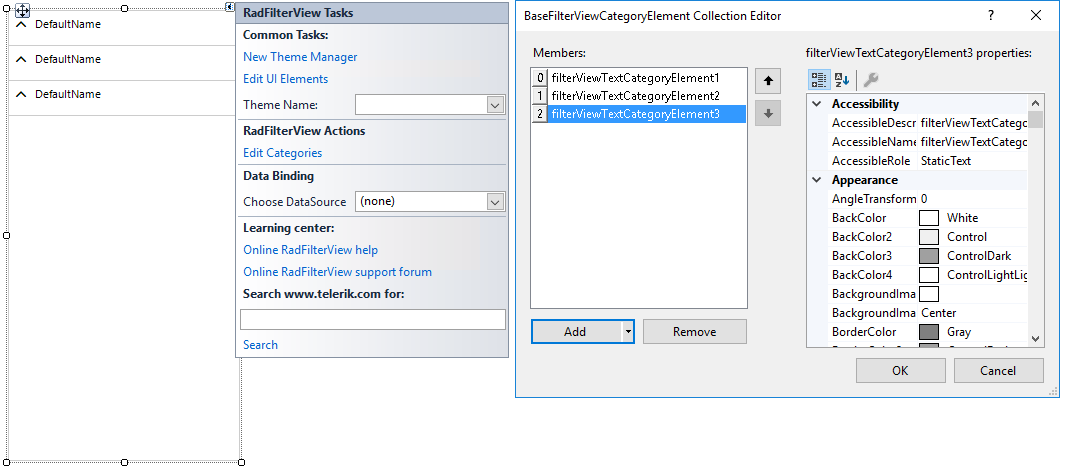
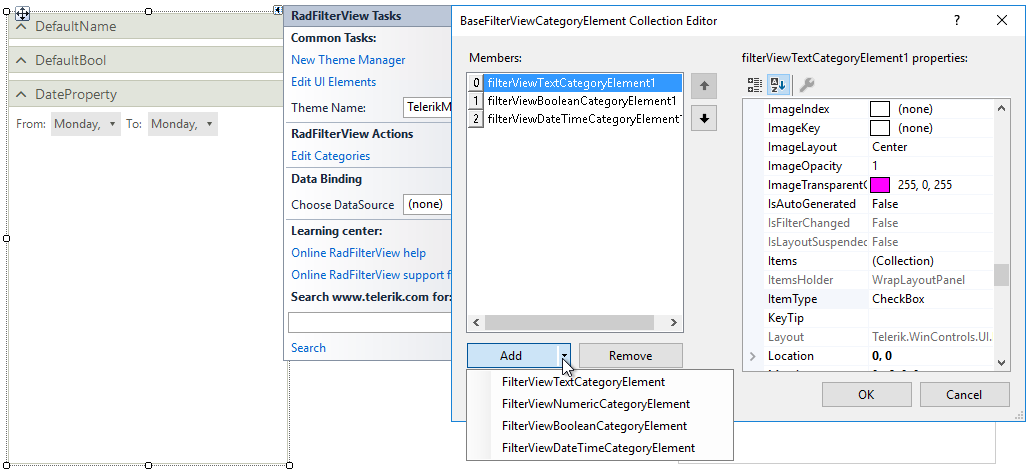
FilterView Changing Default Editors

diff --git a/controls/filter-view/filter-view-changing-default-editors.md b/controls/filter-view/filter-view-changing-default-editors.md
@@ -1,0 +1,171 @@
+---
+title: Changing Default Editors
+page_title: Changing Default Editors | Filter View
+description: Change the default generated editors in the WinForms FilterView control.  
+slug: filter-view-changing-default-editors
+tags: filter, view, editor, change
+published: True
+position: 4  
+---
+
+# Changing Default Editors
+
+**RadFilterView** is build of different filter view group elements. The control uses a **FilterViewCategoriesFactory** that creates the necessary category element considering the property data type:
+
+* **FilterViewNumericCategoryElement**: used for numeric types. It generates two RadSpinEditorElements allowing you to specify a range of numeric values. A RadTrackBarElement is also created providing a different user experience for defining a numberic range. 
+* **FilterViewDateTimeCategoryElement**: used for DateTime properties. It generates two RadDateTimePickerElements allowing you to specify a date range. 
+* **FilterViewBooleanCategoryElement**: used for boolean fields. Two RadCheckBoxElements are created allowing you to easily filter by True/False values. 
+* **FilterViewTextCategoryElement**: default category element. It generates a set of check boxes for each string value. 
+
+**RadFilterView** offers a convenient API for customizing the automatically generated editor elements for a certain group. The default category element can be customized either by utilizing the **FilterViewCategoriesFactory** or by handling the **CategoryCreating** event.  
+
+## Using the CategoryCreating Event
+
+For the boolean fields in the applied DataSource, **RadFilterView** generates a **FilterViewBooleanCategoryElement**. It contains a group of two check boxes, true/false:
+
+![filter-view-changing-default-editors 001](images/filter-view-changing-default-editors001.png)
+
+The **CategoryCreating** event gives you the possibility to replace the default **FilterViewBooleanCategoryElement** with another one, e.g. **FilterViewTextCategoryElement** with radio buttons:
+
+{{source=..\SamplesCS\FilterView\FilterViewGettingStarted.cs region=ReplaceCategory}} 
+{{source=..\SamplesVB\FilterView\FilterViewGettingStarted.vb region=ReplaceCategory}} 
+
+````C#
+
+private void RadFilterView_CategoryCreating(object sender, FilterViewCategoryCreatingEventArgs e)
+{
+    if (e.Category.PropertyName == "Discontinued")
+    {
+        FilterViewTextCategoryElement textCategory = new FilterViewTextCategoryElement();
+        textCategory.PropertyName = e.Category.PropertyName;
+        textCategory.ItemType = FilterViewTextCategoryItemType.RadioButton;
+        e.Category = textCategory;
+    }
+}
+
+````
+````VB.NET
+
+Private Sub RadFilterView_CategoryCreating(ByVal sender As Object, ByVal e As FilterViewCategoryCreatingEventArgs)
+    If e.Category.PropertyName = "Discontinued" Then
+        Dim textCategory As FilterViewTextCategoryElement = New FilterViewTextCategoryElement()
+        textCategory.PropertyName = e.Category.PropertyName
+        textCategory.ItemType = FilterViewTextCategoryItemType.RadioButton
+        e.Category = textCategory
+    End If
+End Sub
+
+````
+
+{{endregion}}   
+
+![filter-view-changing-default-editors 003](images/filter-view-changing-default-editors003.png)
+
+By default, the **FilterViewTextCategoryElement** auto-generates a set of check boxes for each string value. You can switch to creating a set of radio buttons and thus allowing only a single text value to be selected:
+
+{{source=..\SamplesCS\FilterView\FilterViewGettingStarted.cs region=SwitchToRadioButtons}} 
+{{source=..\SamplesVB\FilterView\FilterViewGettingStarted.vb region=SwitchToRadioButtons}} 
+
+````C#
+
+private void RadFilterView1_CategoryCreating(object sender, FilterViewCategoryCreatingEventArgs e)
+{
+    if (e.Category.PropertyName == "ProductName")
+    {
+        FilterViewTextCategoryElement textCategory = e.Category as FilterViewTextCategoryElement; 
+        textCategory.ItemType = FilterViewTextCategoryItemType.RadioButton; 
+    }
+}
+
+````
+````VB.NET
+
+Private Sub RadFilterView1_CategoryCreating(ByVal sender As Object, ByVal e As FilterViewCategoryCreatingEventArgs)
+    If e.Category.PropertyName = "ProductName" Then
+        Dim textCategory As FilterViewTextCategoryElement = TryCast(e.Category, FilterViewTextCategoryElement)
+        textCategory.ItemType = FilterViewTextCategoryItemType.RadioButton
+    End If
+End Sub
+
+````
+
+{{endregion}}   
+
+![filter-view-changing-default-editors 002](images/filter-view-changing-default-editors002.png)
+
+## Using a Custom Factory
+
+Create a derivative of the **FilterViewCategoriesFactory** element and override its **CreateCategory** method. This is the default logic for generating the category elements. It is possible to plug into the creation process and adjust it according to any custom requirements:
+
+{{source=..\SamplesCS\FilterView\FilterViewGettingStarted.cs region=CustomFactory}} 
+{{source=..\SamplesVB\FilterView\FilterViewGettingStarted.vb region=CustomFactory}} 
+
+````C#
+public class CustomFilterViewCategoriesFactory : Telerik.WinControls.UI.FilterView.FilterViewCategoriesFactory
+{
+    public override BaseFilterViewCategoryElement CreateCategory(string propertyName, Type propertyType, string displayName = "")
+    {
+        if (TelerikHelper.IsNumericType(propertyType))
+        {
+            return new FilterViewNumericCategoryElement(propertyName, propertyType, displayName);
+        }
+        else if (propertyType == typeof(DateTime))
+        {
+            return new FilterViewDateTimeCategoryElement(propertyName, propertyType, displayName);
+        }
+        else if (propertyType == typeof(bool))
+        { 
+            return new FilterViewBooleanCategoryElement(propertyName, propertyType, displayName);
+        }
+
+        return new FilterViewTextCategoryElement(propertyName, propertyType, displayName);
+    }
+}
+
+````
+````VB.NET
+
+Public Class CustomFilterViewCategoriesFactory
+    Inherits Telerik.WinControls.UI.FilterView.FilterViewCategoriesFactory
+
+    Public Overrides Function CreateCategory(ByVal propertyName As String, ByVal propertyType As Type,
+                                             ByVal Optional displayName As String = "") As BaseFilterViewCategoryElement
+        If TelerikHelper.IsNumericType(propertyType) Then
+            Return New FilterViewNumericCategoryElement(propertyName, propertyType, displayName)
+        ElseIf propertyType = GetType(DateTime) Then
+            Return New FilterViewDateTimeCategoryElement(propertyName, propertyType, displayName)
+        ElseIf propertyType = GetType(Boolean) Then
+            Return New FilterViewBooleanCategoryElement(propertyName, propertyType, displayName)
+        End If
+
+        Return New FilterViewTextCategoryElement(propertyName, propertyType, displayName)
+    End Function
+End Class
+
+````
+
+{{endregion}}  
+
+Then, apply the custom factory: 
+
+{{source=..\SamplesCS\FilterView\FilterViewGettingStarted.cs region=ChangeFactory}} 
+{{source=..\SamplesVB\FilterView\FilterViewGettingStarted.vb region=ChangeFactory}} 
+
+````C#
+
+this.radFilterView1.CategoriesFactory = new CustomFilterViewCategoriesFactory();
+
+````
+````VB.NET
+Me.RadFilterView1.CategoriesFactory = New CustomFilterViewCategoriesFactory()
+
+````
+
+{{endregion}}    
+ 
+# See Also
+
+* [Getting Started]({%slug filter-view-getting-started%})
+* [Structure]({%slug filter-view-structure%})
+ 
+        

diff --git a/controls/filter-view/filter-view-design-time.md b/controls/filter-view/filter-view-design-time.md
@@ -10,14 +10,23 @@ position: 3
 
 # Design Time
 
-To start using **RadTaskBoard**, just drag it from the toolbox and drop it onto the form.
+To start using **RadFilterView**, just drag it from the toolbox and drop it onto the form.
  
 ## Smart Tag 
 
-Select **RadTaskBoard** and click the small arrow on the top right position in order to open the Smart Tag.
+Select **RadFilterView** and click the small arrow on the top right position in order to open the Smart Tag. It allows you to set the **DataSource** property:
 
-![task-board-design-time 001](images/task-board-design-time001.png)
+![filter-view-design-time 002](images/filter-view-design-time002.png)
 
+Thus, when you run the project, the appropriate filter view group elements will be generated considering the available fields and fields type in the applied source collection:
+
+![filter-view-design-time 003](images/filter-view-design-time003.png)
+
+## Edit Categories
+
+The "Edit categories" option allows you to define your own category elements:
+
+![filter-view-design-time 001](images/filter-view-design-time001.png)
 
  
 # See Also
